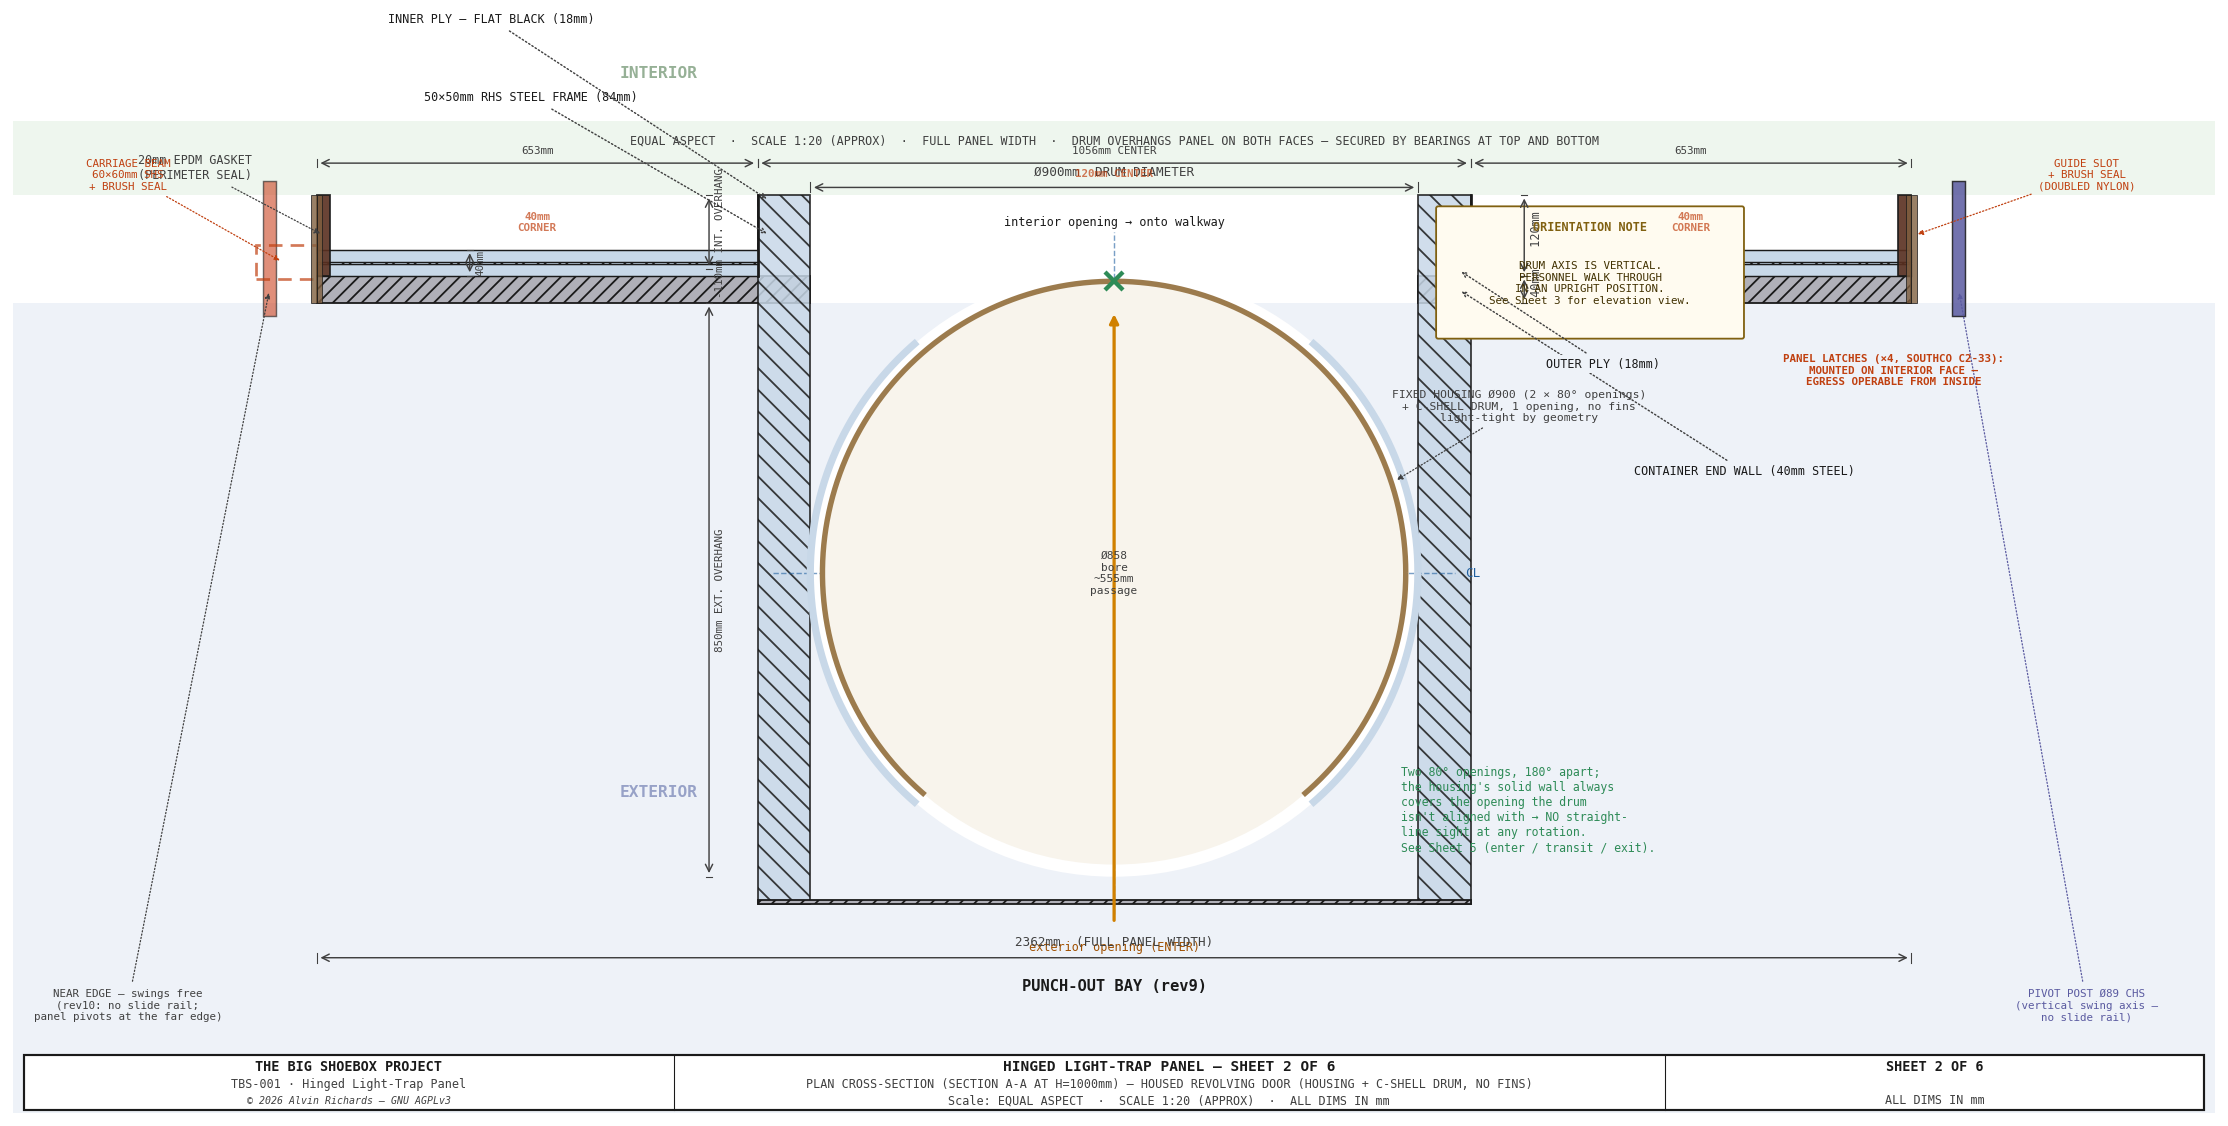
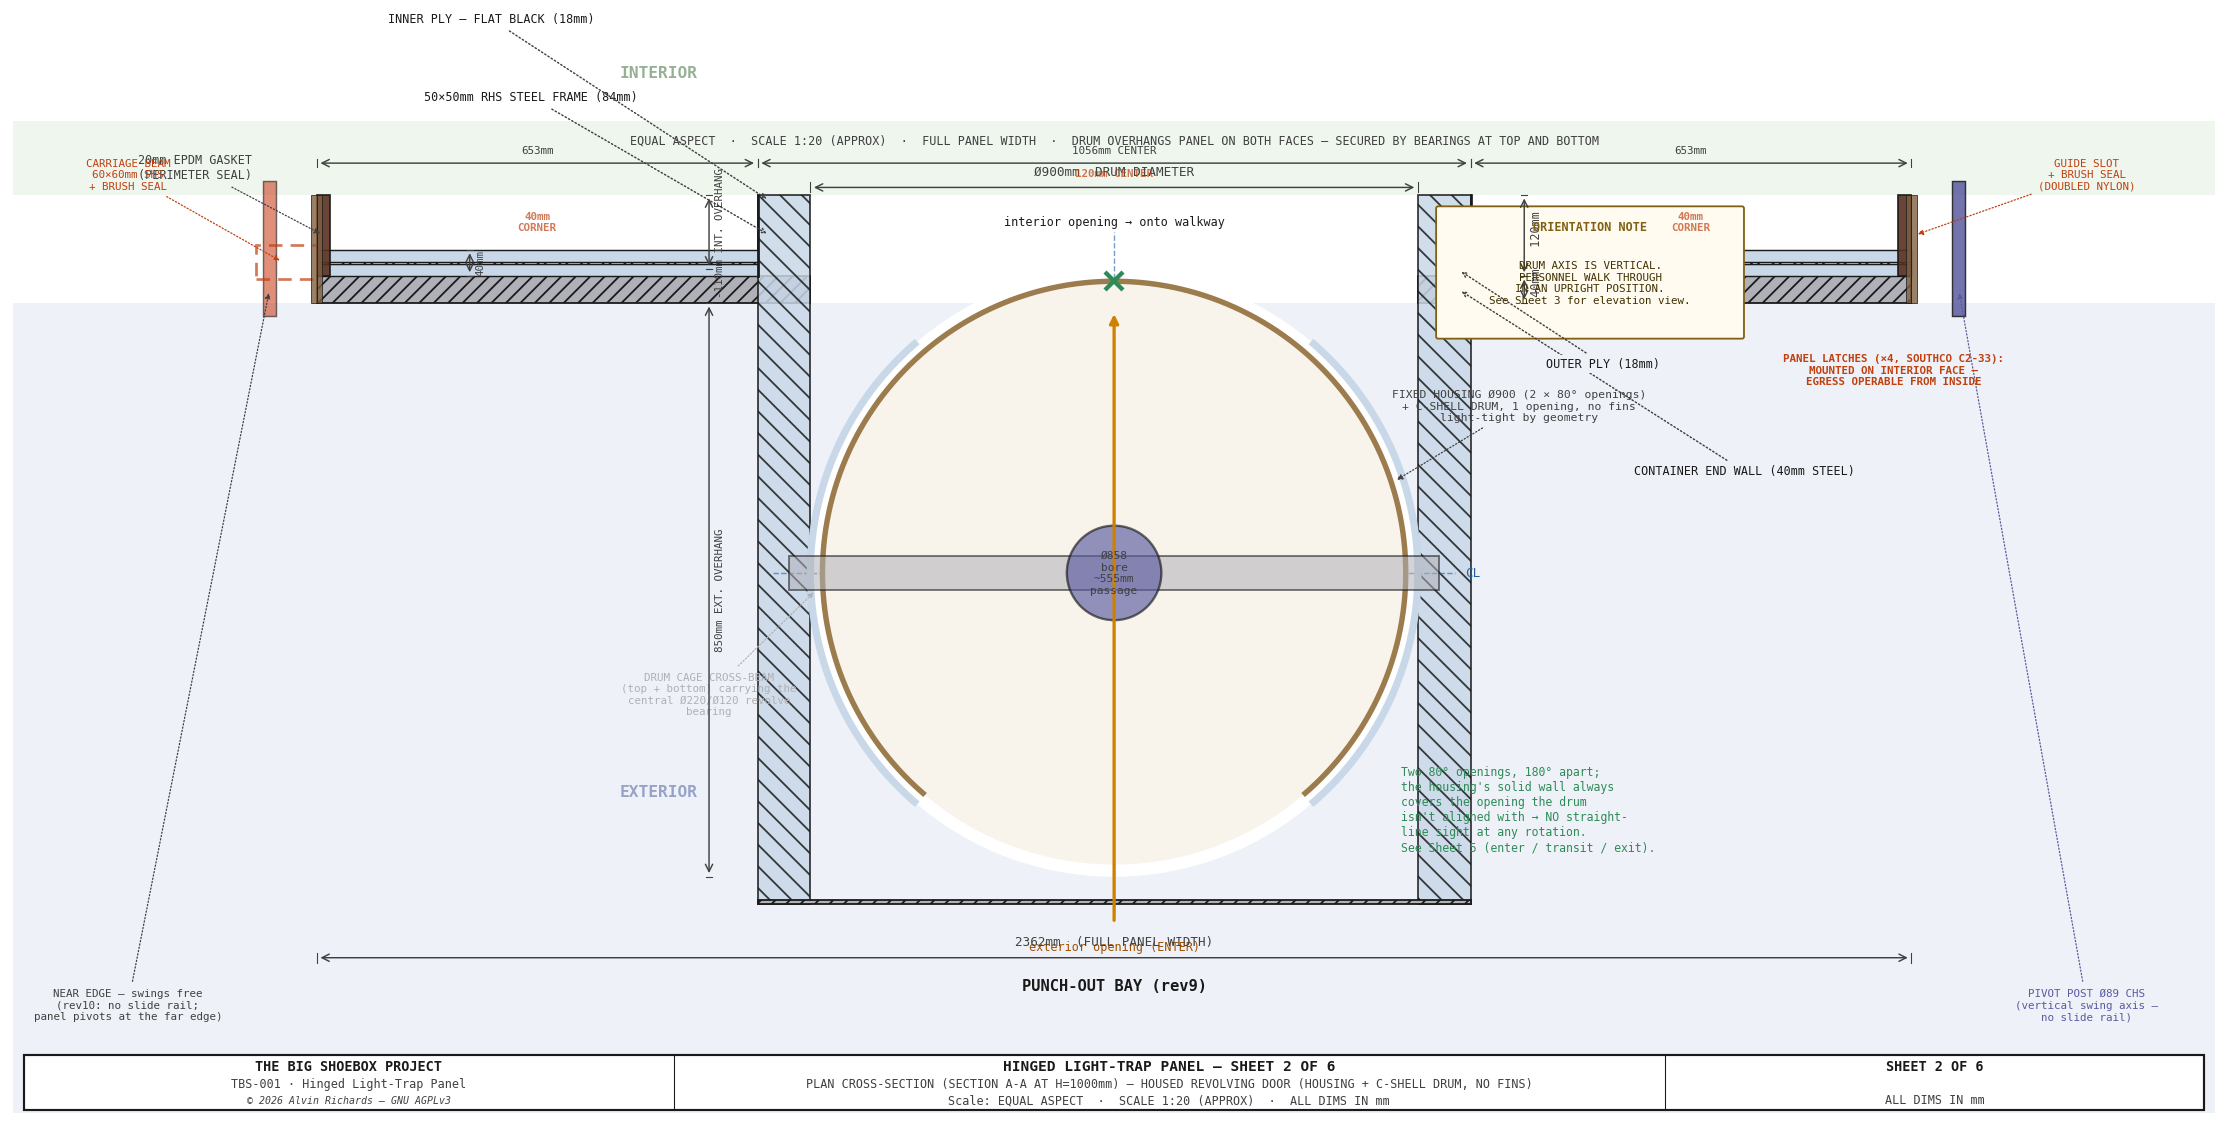
Hingepanel feedback: fan louvre + cut lines (S1), amber removable walkway (S3), drum cage cross-beam (S2)
S1: add the Fan B intake louvre on the panel exterior + the swing CUT lines (Yd180/Yd2287)
and the fixed-left/fixed-far strips (amber tint + leaders). S3: the walkway is now AMBER +
labelled REMOVABLE (lifts out for transport; no swing interference). S2: add the drum cage
cross-beam across the drum carrying the central Ø220/Ø120 revolve bearing.

Changed region(s): [[0.3407, 0.4663, 0.6504, 0.5595], [0.2787, 0.5906, 0.3407, 0.6217]]

diff --git a/src/generators/generate_hingepanel_diagram.py b/src/generators/generate_hingepanel_diagram.py
@@ -140,6 +140,33 @@ def sheet1():
     dim_h(ax, STEP_YD_L, STEP_YD_R, -210,
           f"{STEP_YD_R - STEP_YD_L}mm CENTER ZONE (DRUM Ø{DRUM_D} + 50mm CLEARANCE EACH SIDE)", offset=20)
 
+    # ── Swing split (rev10): vertical CUT lines + fixed-left / swinging / fixed-far ──
+    from tbs_constants import PANEL_CUT_YD as _CUT, FAR_STRIP_YD0 as _FAR
+    for (y0, y1, lbl) in [(0, _CUT, "FIXED LEFT"), (_FAR, PW, "FIXED FAR")]:
+        ax.add_patch(Rectangle((y0, FR), y1 - y0, PH - 2 * FR, fc="#C8A060",
+                               ec="none", alpha=0.40, zorder=4))
+    for cx, lbl in [(_CUT, f"CUT\nYd{_CUT}"), (_FAR, f"CUT\nYd{_FAR}")]:
+        ax.plot([cx, cx], [0, PH], color="#A000A0", lw=2.0, ls=(0, (5, 3)), zorder=6)
+        ax.text(cx, PH + 35, lbl, color="#A000A0", fontsize=6, ha="center", va="bottom",
+                fontweight="bold", **FONT, zorder=15)
+    leader(ax, (_FAR + (PW - _FAR) / 2, PH / 2 - 250), (PW + 230, PH / 2 - 250),
+           "FIXED FAR STRIP\n(Yd2287–2362) — does NOT\nswing; seals the strip\nbeyond the pivot", col="#6a4010", fs=6)
+    leader(ax, (_CUT / 2, FR + 250), (-300, FR + 250),
+           "FIXED LEFT PANEL\n(Yd0–180) — does NOT\nswing (clears near upright)", col="#6a4010", fs=6)
+    ax.text(PW / 2, FR + 70, "SWINGING PANEL  (Yd180 → 2287, pivots 56°)", color="#1763C8",
+            fontsize=7, ha="center", va="bottom", fontweight="bold", **FONT, zorder=15, alpha=0.8)
+
+    # ── Fan B intake — weatherproof louvre on the panel exterior (near corner) ──
+    from tbs_constants import FAN_B_YD as _FBY, FAN_B_H as _FBH
+    fb_w, fb_h = 200, 200
+    ax.add_patch(Rectangle((_FBY - fb_w / 2, _FBH - fb_h / 2), fb_w, fb_h,
+                           fc="#8090A0", ec=C_OUT, lw=1.3, zorder=6))
+    for i in range(1, 5):
+        yy = _FBH - fb_h / 2 + i * fb_h / 5
+        ax.plot([_FBY - fb_w / 2, _FBY + fb_w / 2], [yy, yy], color=C_OUT, lw=0.6, zorder=7)
+    leader(ax, (_FBY, _FBH - fb_h / 2), (_FBY + 320, _FBH - 320),
+           "FAN B (intake) OUTLET\nweatherproof louvre on the\npanel exterior (swings with\nthe panel; camera mode only)", col="#506070", fs=6)
+
     # ── Revolving drum ────────────────────────────────────────────────────────
     DX = DRUM_CX - DRUM_R   # drum left edge in panel
     DY_BOT = 100             # drum bottom clearance from panel bottom edge
@@ -575,6 +602,17 @@ def sheet2():
     ax.add_patch(Circle((D_CX, D_CY), LT_DRUM_OR, fc="#F8F4EC", ec="none", zorder=8))
     _arc(D_CX, D_CY, DR, [(90, OD), (270, OD)], 4.0, C_ALUM, z=9)      # fixed Al housing
     _arc(D_CX, D_CY, LT_DRUM_OR, [(270, OD)], 3.0, "#9C7B4D", z=10)      # C-shell drum (ENTER)
+
+    # ── Drum support CAGE cross-beam (across the drum) carrying the central revolve
+    #    bearing — top + bottom (rev10). Shown as a bar spanning the cage width. ──
+    from tbs_constants import DRUM_CAGE_YD_L as _CGL, DRUM_CAGE_YD_R as _CGR
+    cb_t = 50
+    ax.add_patch(Rectangle((_CGL, D_CY - cb_t / 2), _CGR - _CGL, cb_t,
+                           fc=C_STEEL, ec=C_OUT, lw=1.1, alpha=0.55, zorder=11))
+    ax.add_patch(Circle((D_CX, D_CY), 70, fc="#5A5AA0", ec=C_OUT, lw=1.3,
+                        alpha=0.65, zorder=12))
+    leader(ax, (_CGL + 40, D_CY - cb_t / 2), (D_XL - 150, D_CY - DR * 0.4),
+           "DRUM CAGE CROSS-BEAM\n(top + bottom) carrying the\ncentral Ø220/Ø120 revolve\nbearing", col=C_STEEL, fs=6)
     # daylight ray at ENTER: enters bore from exterior, blocked at interior by drum
     ax.annotate("", xy=(D_CX, D_CY + LT_DRUM_OR * 0.9), xytext=(D_CX, D_YB - 70),
                 arrowprops=dict(arrowstyle="-|>", color="#D08000", lw=1.8), zorder=12)
@@ -857,7 +895,9 @@ def sheet3():
     # In this Section A-A view (looking along Yd), the near and far walkways
     # project to the same position. They cantilever from the container side
     # walls, running along X. Show as cross-section on the interior side.
-    C_WALKWAY = "#707078"
+    # rev10: at the door end the walkway is REMOVABLE (left walkway + door-end near-deck
+    # section lift out for the swing) — shown in AMBER to flag it carries no swing interference.
+    C_WALKWAY = "#C8902A"          # amber — removable
     BRKT_ARM_Z = WALKWAY_H - WALKWAY_GRATE_T  # = 75mm (top of bracket arm)
     WK_START = Y1_PL2 + 80   # start showing walkway past drum overhang
     WK_END   = D_DEPTH_R + 120  # extend into interior
@@ -866,10 +906,10 @@ def sheet3():
     ax.add_patch(plt.Rectangle((WK_START, BRKT_ARM_Z - WALKWAY_BRACKET_T),
                                 WK_END - WK_START, WALKWAY_BRACKET_T,
                                 fc=C_WALKWAY, ec=C_OUT, lw=0.6, zorder=4))
-    # Grate (25mm thick at Z=75-100mm)
+    # Grate (amber, removable)
     ax.add_patch(plt.Rectangle((WK_START, BRKT_ARM_Z),
                                 WK_END - WK_START, WALKWAY_GRATE_T,
-                                fc="#D0D0D4", ec=C_OUT, lw=0.6, hatch="--", zorder=4))
+                                fc="#E8B860", ec=C_OUT, lw=0.6, hatch="xx", zorder=4))
 
     # Break lines at right end (walkway continues)
     for z_off in [-5, 5, 15]:
@@ -879,7 +919,7 @@ def sheet3():
 
     leader(ax, (WK_START + (WK_END - WK_START) / 2, WALKWAY_H + 5),
            (WK_START + (WK_END - WK_START) / 2 + 300, WALKWAY_H + 200),
-           f"WALKWAY DECK\n{WALKWAY_GRATE_T}mm GRATE AT\nZ={WALKWAY_H}mm\n(NEAR + FAR WALLS)",
+           f"WALKWAY DECK — REMOVABLE\n(lifts out for transport;\nno swing interference)\n{WALKWAY_GRATE_T}mm grate at Z={WALKWAY_H}mm",
            col=C_WALKWAY, fs=5.5)
 
     # Walkway deck height dimension
